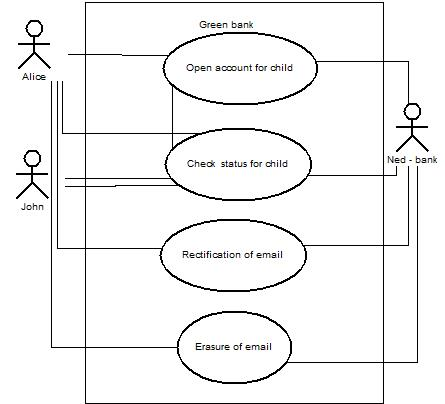
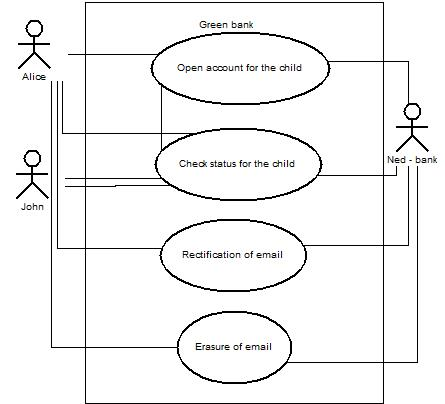
Edited use case 3 and 4

diff --git a/main.tex b/main.tex
@@ -163,7 +163,7 @@ There is a detailed overview of all used enumerations.
     \label{fig:Enums2}
 \end{figure}
 \section{Case study}
-We evaluated this meta-model against the example of the privacy policy of a real-world bank. The name of the imaginary bank we are testing is Green bank which is located in Hungary. We decided to describe these common business processes to show how flexible and clear the meta-model is to use in real life. We used the existing xmi for verification, which is available in the development environment. To cover all the first 50 articles of the GDPR, which deal with data processing within companies, we made several use-cases. To simplify the example, the bank employs two workers: Ned and Patti. \newline Through first set of uses cases, we tested a set of articles that deal with collecting, accessing and transferring data. The main actors in this use case are Eva and Ned. Opening an account is considered a rudimentary operation in the system since it collects information about the client, so the first use case is 'Open account 1'. In this use case we tested Article 5 which says that 'Personal data shall be collected for specified, explicit and legitimate purposes and not further processed in a manner that is incompatible with those purposes'. During data collection, the client defines the purpose for which the use of his data is allowed. In this case, the user, Eve, wants to use data only for out of scope purposes and sub reason personal activity. Besides this, it also tested Article 6 which demand consent for collecting data. The following case of use "Check status" also tests Article 6, because the consent should be valid throughout the life cycle of data use. In this use case, Eve checked the status of the bank account. The bank officer accessed her data. Through this case, we tested Article 9. It checks whether the user has previously defined the purpose of data processing. The last use case 'Transfer account to another country' tested all sets of articles that treat the data transfer. At first, Article 6 requires explicit consent from the data owner for transferring data. Then, a set of articles 44-50 says that at the start of the transfer, it is necessary to inclose the transfer certificate, and it is also required that this document is valid. Article 15 demands that after the data transfer, the data processor should create a notification on the successful transfer of personal data. \newline The second group of use cases deals with the collecting and processing of juvenile data. The main actors in this group are Alice (child), John (Alice's father) and Ned. The GDPR through Article 8 allows each state to decide on the age limit up to which a person is considered a child. However, if the state does not declare, the default value is taken - 16 years. As we mentioned earlier, the bank is located in Hungary and in this example the age limit is not defined, so the meta-model takes the predefined value of 16 years. Through the first use case 'Open account for child' we tested set of articles which process collecting of juvenile data. At first, we have tested Article 8. This article says that 'In case of collecting data on the child, the data processor should submit the document on custody of the child'. In addition to this article, we tested Article 5 again. As in the previous example, by collecting data, the owner defined all the purposes for data usage. In the second example, we retested the access of the collected data through the use case 'Status check', with the difference that this time we are accessing child data and it is necessary for child custody to be valid. The third example 'Rectification of email' tested an Article 16. It claims the rights of owners to submit a request to rectification their data. This article defines that it is necessary to carry out this complaint as soon as possible. So, Alice submitted a request to change the email in the banking system. Therefore, the bank should create an internal email change action that is causally related to the client's request. After this, bank is obligatory to inform the owner about the result, by the Article 19. The last example 'Erasure of email' tested Article 17, which claims that the user has the privilege to file complaints about the use of data and requests their erasure. In this use case after a while Alice submits a request to delete the email. Article 17 requires that a request for deletion of data is processed as soon as possible or that a reason for denial is stated. In this case, the bank replied that this information is still necessary because it needs to be submitted to the supervisory authorities. After, it is necessary to inform the user about the result, by the Article 19.
+We evaluated this meta-model against the example of the privacy policy of a real-world bank. The name of the imaginary bank we are testing is Green bank, with a location in Hungary. We described these usual business processes to show how flexible and clear the meta-model is to use in real life. We used the existing xmi for verification, which is available in the development environment. We made several use cases to cover all the first 50 articles of the GDPR, which deal with data processing within companies. In order of case simplification, the bank employs two workers: Ned and Patti. \newline Through the first set of uses cases, we tested a group of articles that deal with collecting, accessing and transferring data. The main actors in this use case are Eva and Ned. Opening an account is considered a rudimentary operation in any information system since it collects information about the client, so the first use case is 'Open account 1'. In this use case, we tested Article 5, which says that 'Personal data shall be collected for specified, explicit and legitimate purposes and not further processed in a manner that is incompatible with those purposes'. During data collection, the client defines the purpose for which the use of his data is allowed. In this case, the user, Eve, wants to use data only for out of scope purposes and sub reason personal activity. Besides this, it also tested Article 6, which demand consent for collecting data. The following case of use - "Check status" also tests Article 6 because the consent should be valid throughout the life cycle of data use. In this use case, Eve checked the status of the bank account. The bank officer accessed her data. Through this case, we tested Article 9. It analysis whether the user has previously defined the purpose of data processing. The last use case - 'Transfer account to another country', tested all sets of articles that treat the data transfer. At first, Article 6 requires explicit consent from the data owner for transferring data. Then, a group of articles 44-50 requires the inclosure of a transfer certificate at the beginning of the transfer. It also requires that this document should be valid. Article 15 demands that the data processor create a notification on the successful transfer of personal data after the data transfer. In this use case bank employee, Ned has to transfer Eve's data from Hungary to Serbia for data processing. So, at first, Eve should permit this transfer in the form of consent. After that, Ned transfers these data with consent as an attachment. In the end, the bank informs Eve about the successful transfer. \newline The second group of use cases deals with the collecting and processing of juvenile data. The main actors in this group are Alice (child), John (Alice's father) and Ned. Article 8 allows each state to decide on the age limit to which a person is considered a child. However, if the state does not declare, the default value is taken - 16 years. As we mentioned earlier, the bank is located in Hungary and in this example the age limit is not defined, so the meta-model takes the predefined value of 16 years. Through the first use case - 'Open account for the child' we tested a set of articles that process the collecting of juvenile data. At first, we have tested Article 8. This article says that 'In case of collecting data on the child, the data processor should submit the document on custody of the child'. In addition to this article, we tested Article 5 again. As in the previous example, by collecting data, the owner defined all the purposes for data usage. In the second example, we retested the access of the collected data through the use case 'Check status for the child'. The only difference is that this time we are accessing child data. Additionally, child custody must be valid. The third use case -'Rectification of emails', tested Article 16. It claims the rights of owners to submit a request to rectification their data. This article defines that it is necessary to carry out this complaint as soon as possible. So, Alice submitted a request to change the email in the banking system. Therefore, the bank should create an internal email change action. This action should be causally related to the client's request. After this, the bank should inform the owner about this, by Article 19. The last use case - 'Erasure of email', tested Article 17, which claims that the user has the privilege to file complaints about the use of data and requests their erasure. In this use case, Alice submits a request to delete the email. Article 17 requires the processing of the request for deletion or the submission of denial reasons. So, the bank replied that this information is still necessary because it needs for supervisory authorities purposes. After it is necessary to inform the user about the result by Article 19. \newline Through the third set of use cases, we tested the data owner's privilege of requesting to stop data processing. The main actors in this use case are John, Ned and Patti. The first use case - 'Open account 2', tested the same articles as the first use case from the first set, but in this use case, John permits the bank to use his data for marketing purposes. Then in the second use case - 'Email sending for new credit card'. Patti sent him an email to inform him about the new credit cards. Later in the use case - 'Email sending for new credit card', John complained about these emails and demanded that the bank stop using his data for marketing purposes. This use case tested Article 21, right to objection. This article also requires the cessation of data processing for the stated purposes and the notification of the data owner. For these reasons, the bank must stop processing the data for marketing purposes as soon as possible. In the end, the bank should inform John. The last use case - 'Withdraw consent for data processing', tested the data owner right to withdraw consent for data processing by Article 7. Then, Article 19 requires that the suspension of data processing. It also requires notifying the data owner of this action as soon as possible. Because of this, the bank should suspend the processing of John's data and inform him about it.\newline Through the fourth set of use cases, the bank dealt with situations in which data owners are involved in malicious actions. The main actors in this use case are Bob, Patti, Green bank as a legal entity and police. In the first use case - 'Open account 3', we tested the same articles as in the first use case from the first set. The second use case - 'Police investigation', deals with data processing that requires the participation of legal entities, such as courts. In this example, Bob was involved in illegal activities. Police came to the bank to check his account. Validation requires the police to submit a court authorization for access to user data, as Article 9 defines that the processing of such data requires a court authorization. This article also explicitly states, use for purposes of public interest is allowed. It is, therefore, necessary for the police to define the purposes of access to ownership data.
 \begin{figure}[H]
 \centering
 \begin{minipage}{.5\textwidth}
@@ -179,7 +179,6 @@ We evaluated this meta-model against the example of the privacy policy of a real
   \label{fig:usecase2}
 \end{minipage}
 \end{figure}
-Through the third use case is tested Article 21, right to objection. In the first example, Homer permits the bank to use his data for marketing purposes. Then, they sent him an email to inform him about the new credit cards. Later, Homer complained about the email and want the bank to stop using his data for marketing purposes. \newline Through the fourth use case, we dealt with situations in which data owners are involved in some malicious actions. Therefore, it deals with data processing that requires the participation of legal entities, such as courts. In this example, Mr Burns was involved in illegal activities. Police came to the bank to check his account. Validation requires the police to submit a court authorization for access to user data, as Article 9 defines that the processing of such data requires a court authorization. This article also explicitly states, use for purposes of public interest is allowed. It is, therefore, necessary for the police to define the purpose of access to ownership data. Through these extensive four use cases, we tested the first 50 members of the GDPR.
 \begin{figure}[H]
 \centering
 \begin{minipage}{.5\textwidth}
